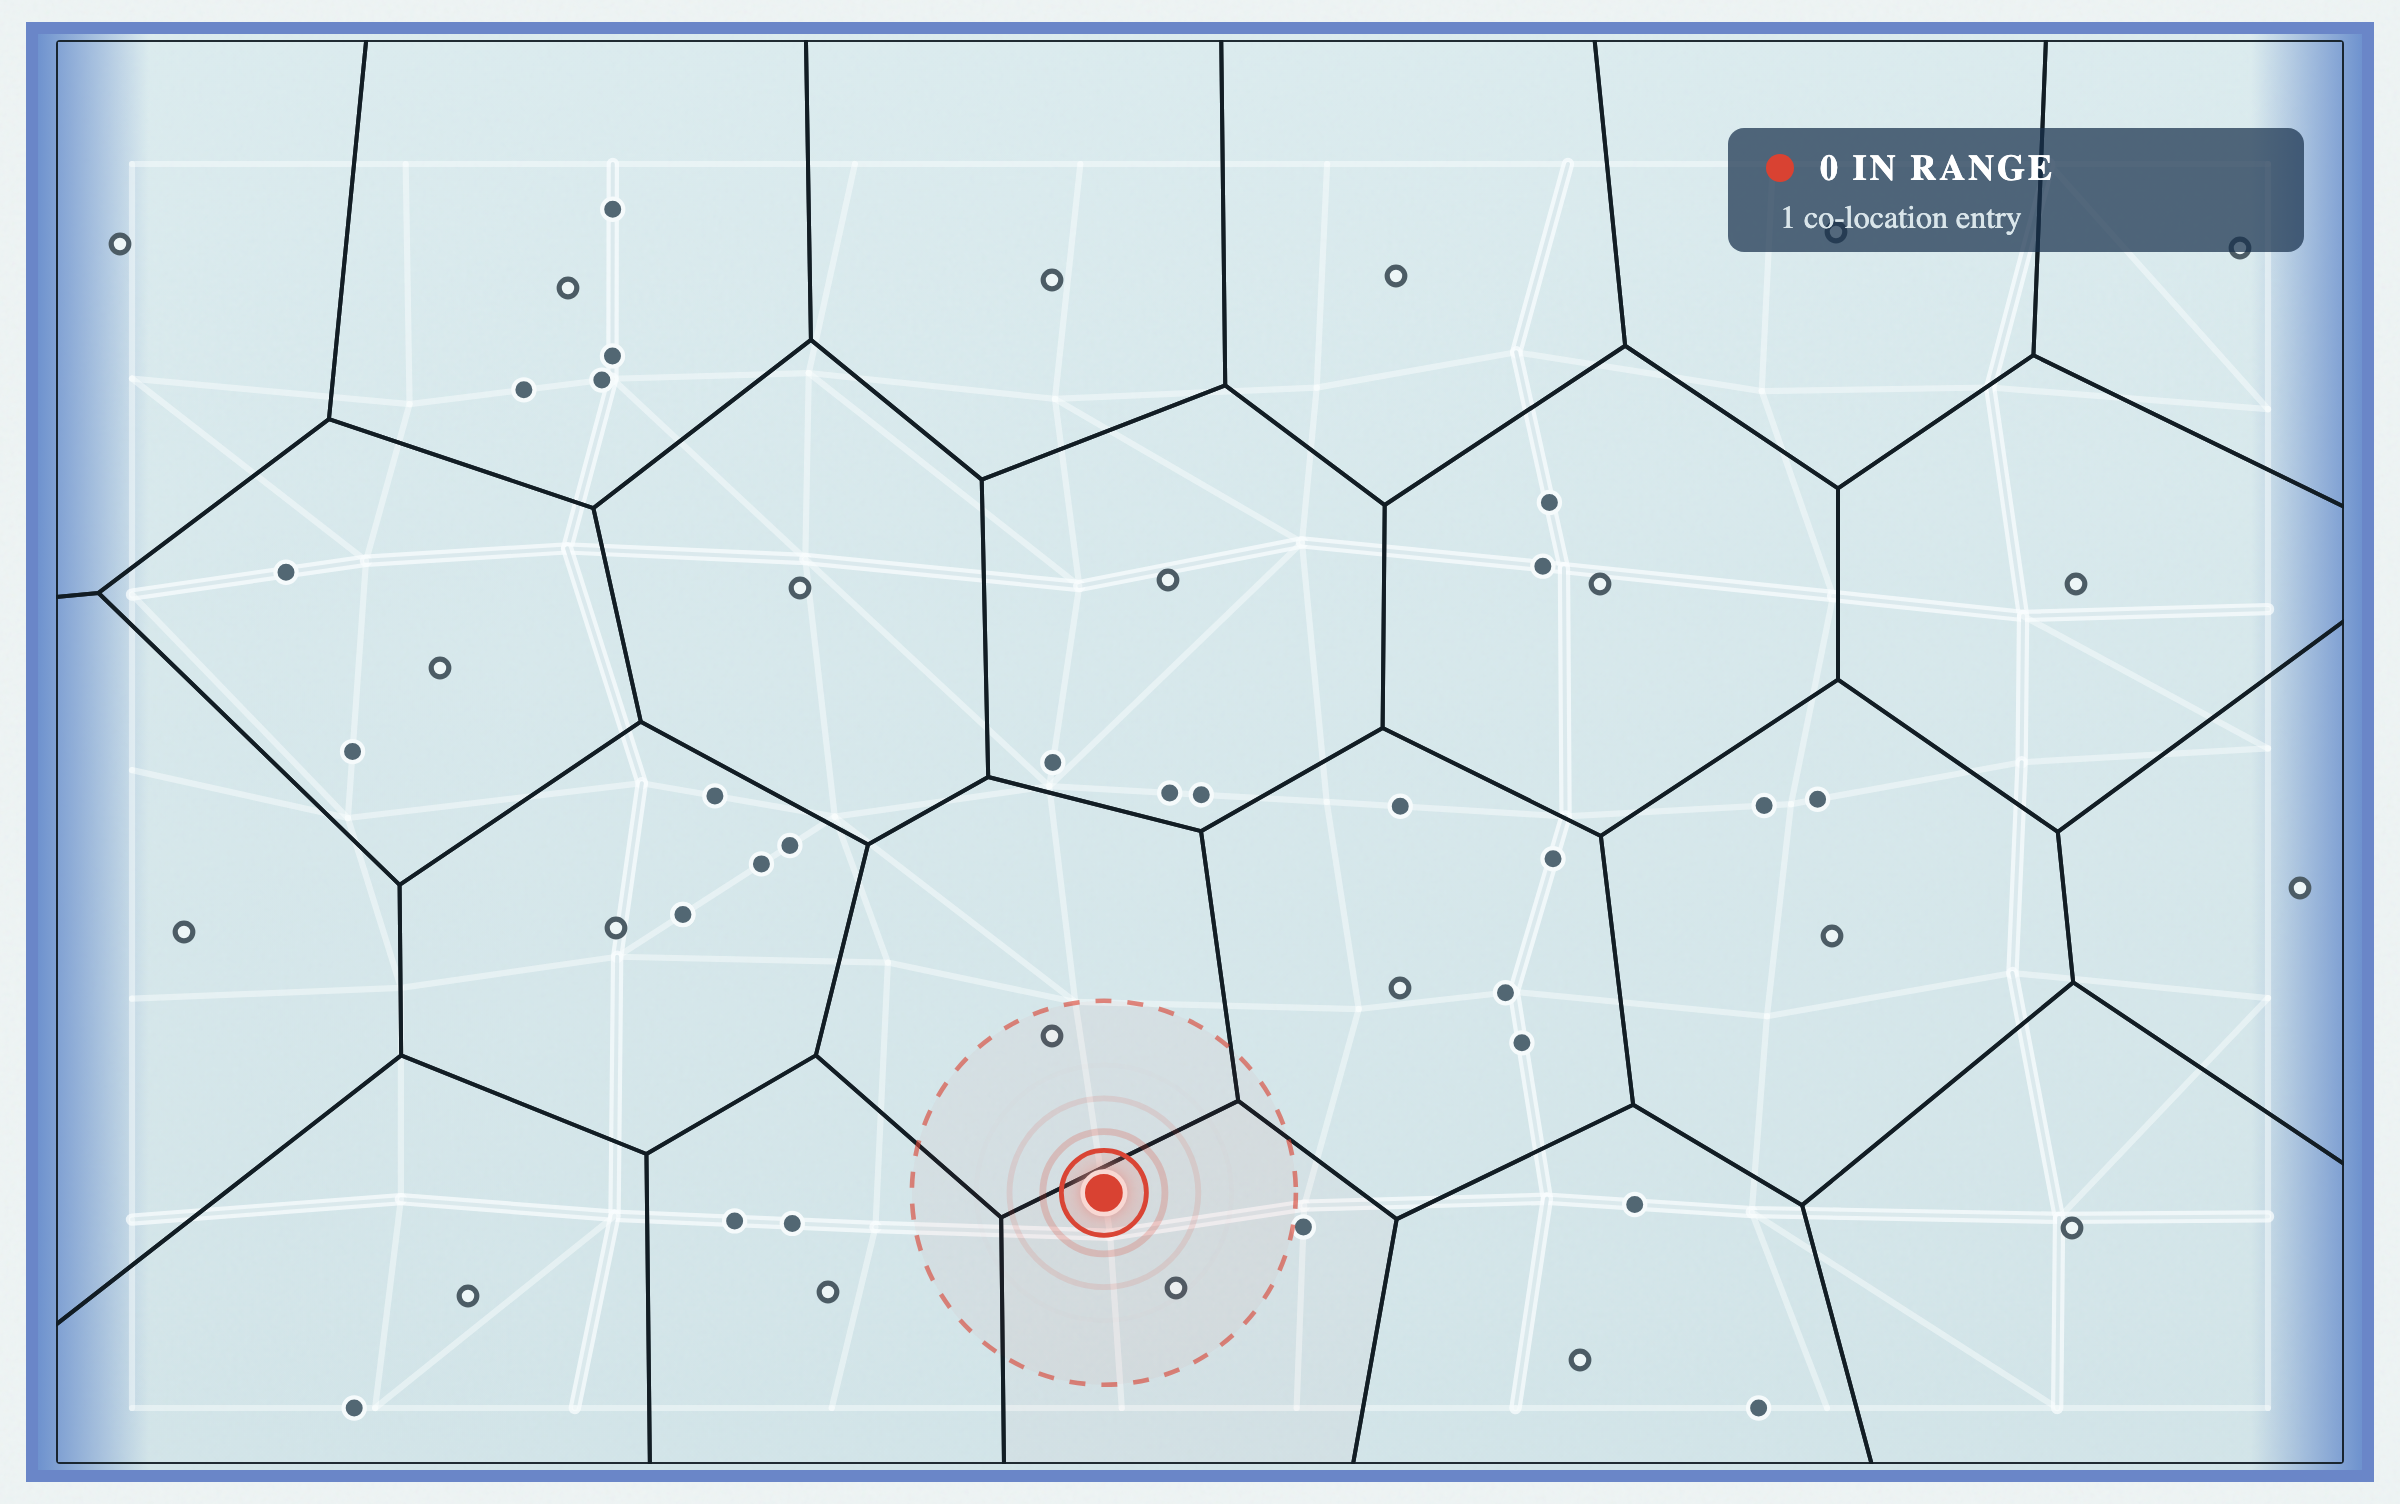
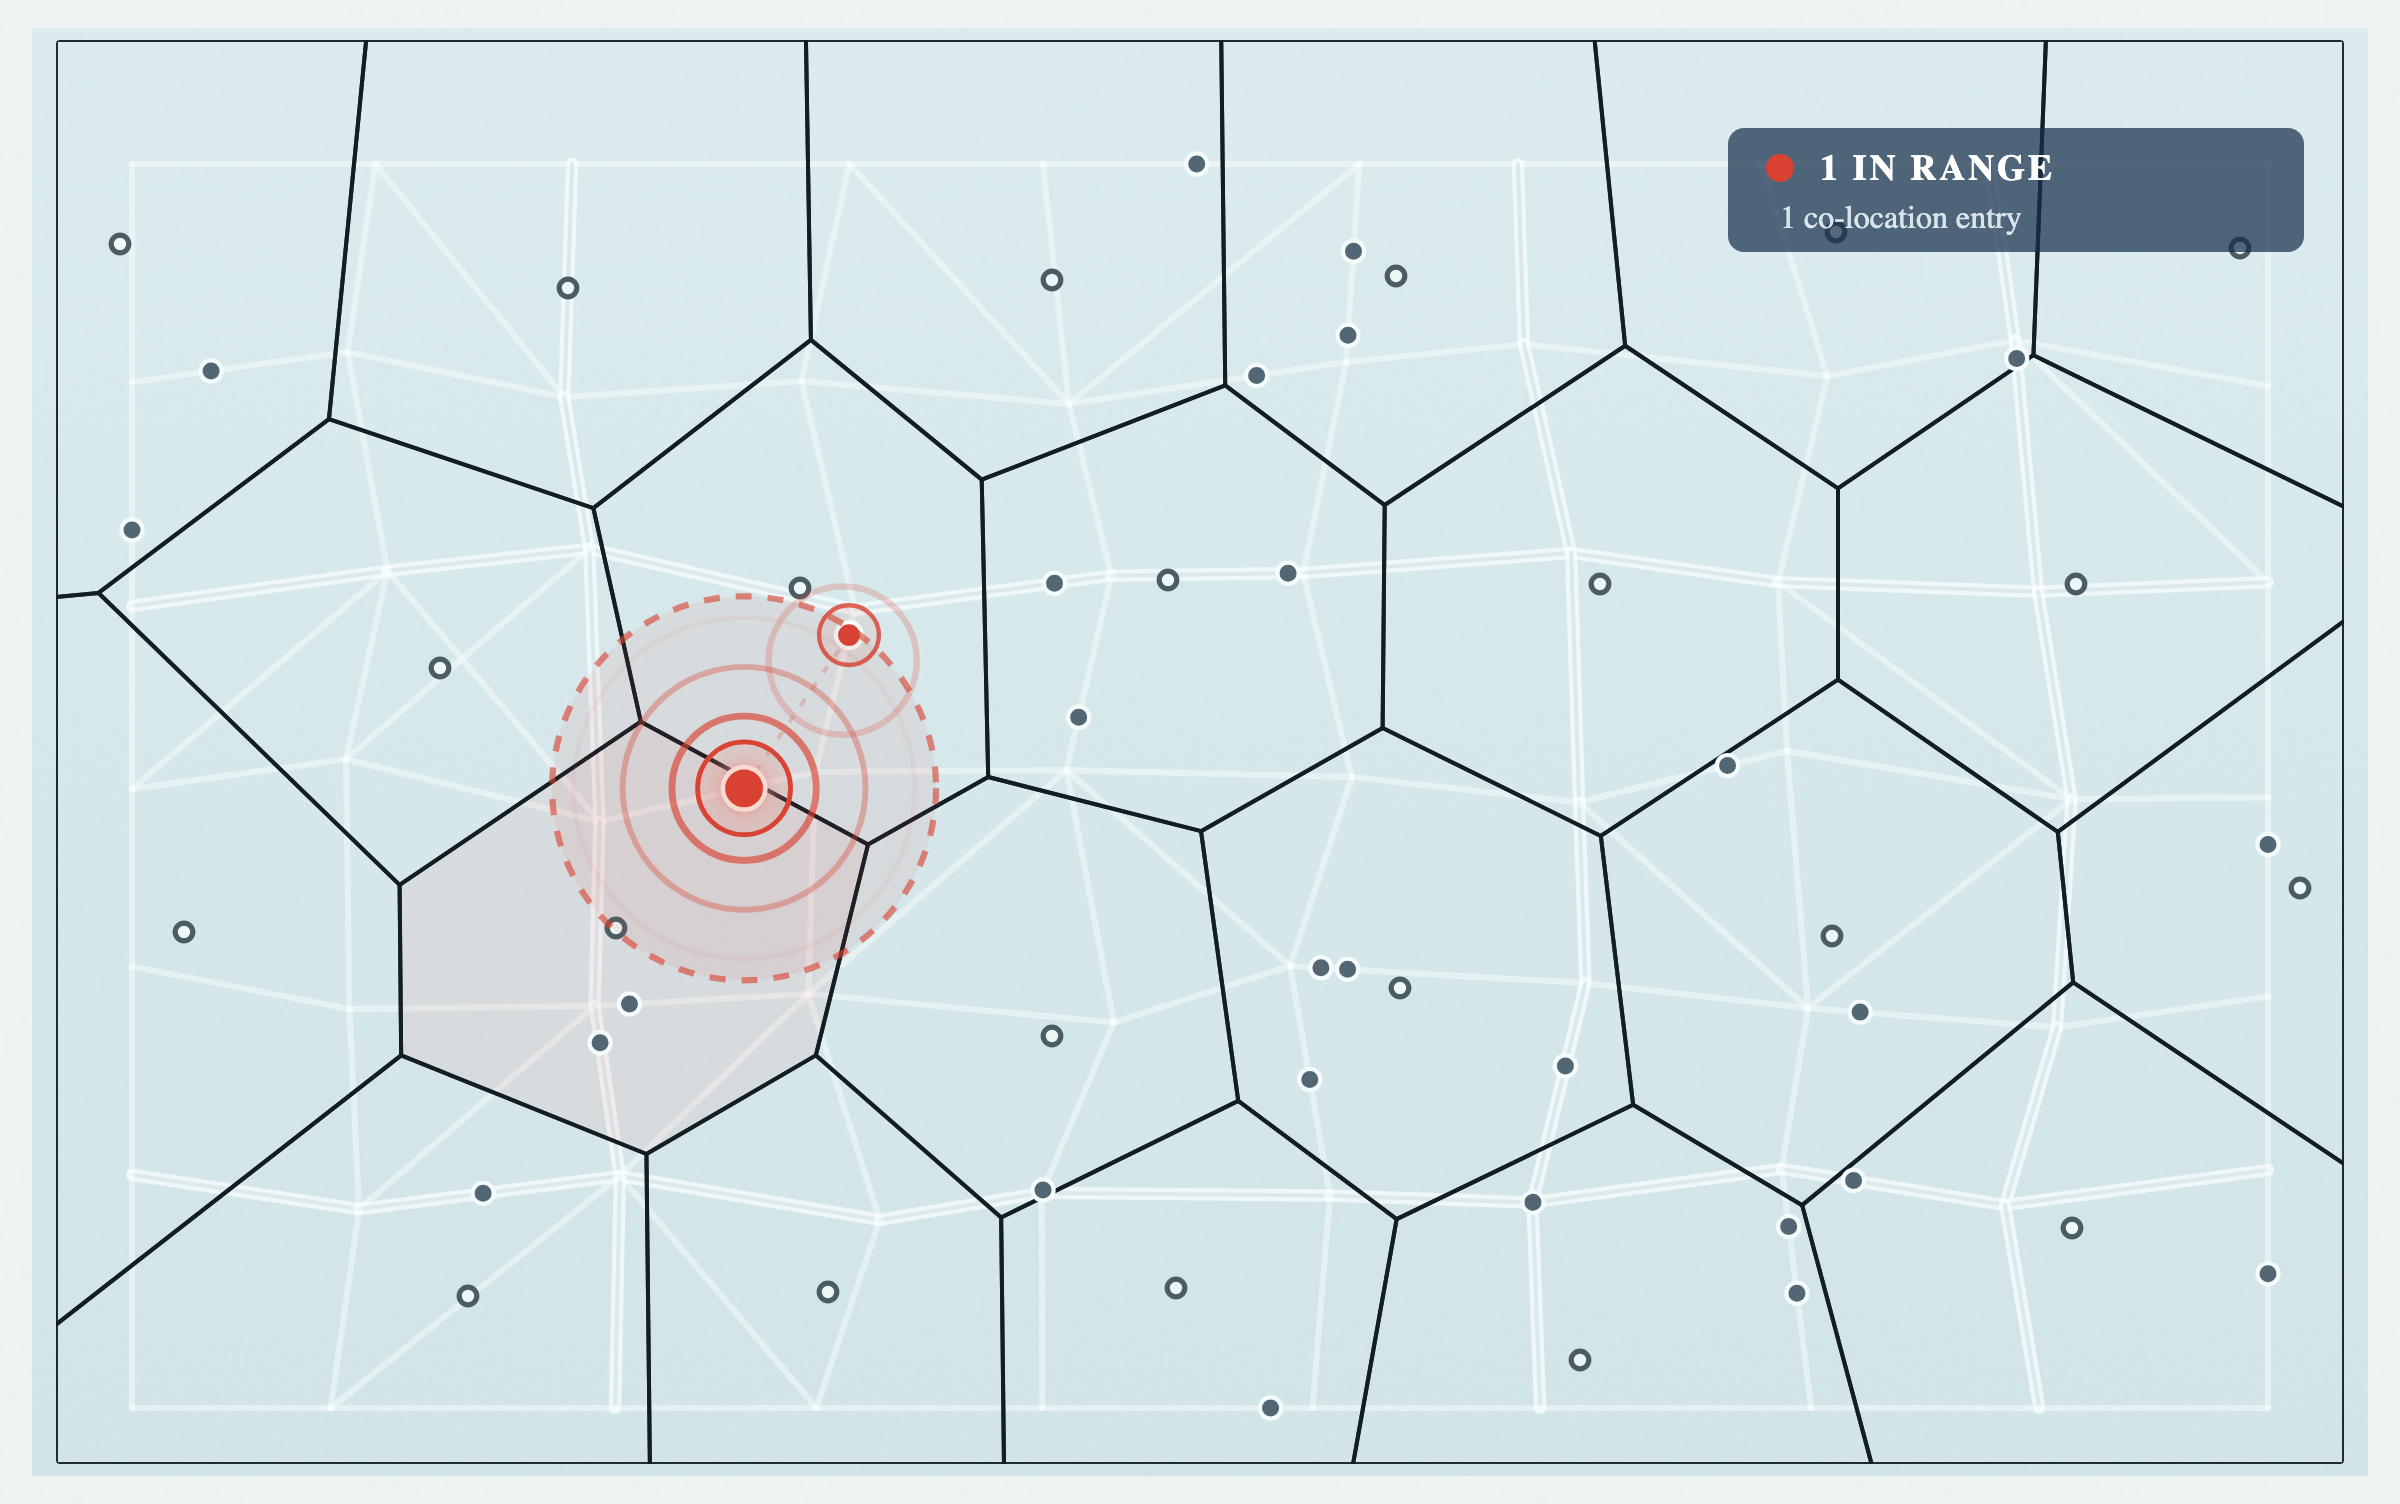
Regenerate OG cards: blue-free co-location, lighter tint
Sync the co-location capture page to the blue-free animation and re-capture
its frame, then lighten the neutral wash tint (#efece6 to #f7f5f1) so the
left of each card reads white rather than grey. All cards regenerated.

diff --git a/scripts/coloc-capture.html b/scripts/coloc-capture.html
@@ -30,12 +30,6 @@
 <stop offset="0" stop-color="#dcecef" />
 <stop offset="1" stop-color="#d3e5e9" />
 </linearGradient>
-<linearGradient id="edgeGlow" x1="0" y1="0" x2="1" y2="0">
-<stop offset="0" stop-color="#6389cb" stop-opacity=".95" />
-<stop offset=".05" stop-color="#6389cb" stop-opacity="0" />
-<stop offset=".95" stop-color="#6389cb" stop-opacity="0" />
-<stop offset="1" stop-color="#6389cb" stop-opacity=".95" />
-</linearGradient>
 <filter id="softGlow" x="-100%" y="-100%" width="300%" height="300%">
 <feGaussianBlur stdDeviation="2.6" result="blur" />
 <feMerge><feMergeNode in="blur"/><feMergeNode in="SourceGraphic"/></feMerge>
@@ -48,8 +42,7 @@
 <clipPath id="mapClip"><rect x="14" y="10" width="572" height="356" rx="1"/></clipPath>
 </defs>
 <rect width="600" height="376" fill="#eef4f4" />
-<rect x="8" y="7" width="584" height="362" fill="url(#mapWash)" stroke="#718fd1" stroke-width="3" filter="url(#paper)" />
-<rect x="8" y="7" width="584" height="362" fill="url(#edgeGlow)" pointer-events="none" />
+<rect x="8" y="7" width="584" height="362" fill="url(#mapWash)" filter="url(#paper)" />
 <g clip-path="url(#mapClip)">
 <g id="roads"></g>
 <g id="cellFills"></g>
@@ -66,7 +59,6 @@
 <text id="hudCurrent" class="hud-label" x="23" y="13" font-size="9">0 IN RANGE</text>
 <text id="hudTotal" x="13" y="25" fill="#d9e5ea" font-size="8">0 co-location entries</text>
 </g>
-<rect x="8" y="7" width="584" height="362" fill="none" stroke="#6a86c8" stroke-width="3" pointer-events="none" />
 </svg>
 <script src="../assets/js/who-meets-whom/co_location.js"></script>
 </body>
